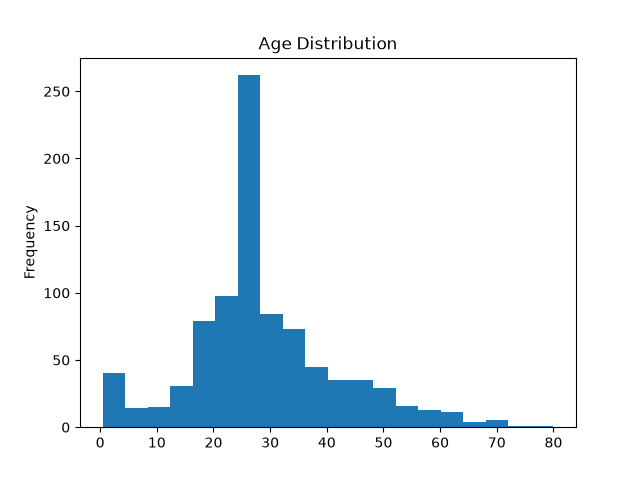
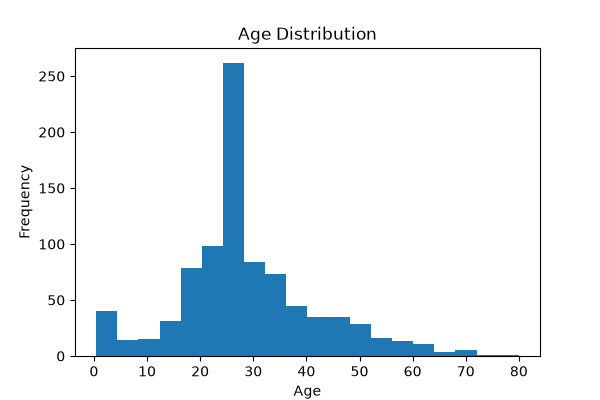
Restore Week 1 code

diff --git a/main.py b/main.py
@@ -1,0 +1,63 @@
+import pandas as pd
+import matplotlib.pyplot as plt
+
+# Load Dataset
+df = pd.read_csv("train.csv")
+
+# Display First 5 Rows
+print(df.head())
+
+# Dataset Information
+print(df.info())
+
+# -----------------------------
+# Data Cleaning
+# -----------------------------
+
+# Fill missing values
+df["Age"] = df["Age"].fillna(df["Age"].median())
+df["Embarked"] = df["Embarked"].fillna(df["Embarked"].mode()[0])
+
+# Remove Cabin column
+df = df.drop(columns=["Cabin"])
+
+# Remove duplicate rows
+df = df.drop_duplicates()
+
+# -----------------------------
+# Visualization 1
+# Survival Count
+# -----------------------------
+plt.figure(figsize=(6,4))
+df["Survived"].value_counts().plot(kind="bar", color=["red", "green"])
+plt.title("Survival Count")
+plt.xlabel("Survived")
+plt.ylabel("Number of Passengers")
+plt.savefig("survival.png")
+plt.close()
+
+# -----------------------------
+# Visualization 2
+# Age Distribution
+# -----------------------------
+plt.figure(figsize=(6,4))
+plt.hist(df["Age"], bins=20)
+plt.title("Age Distribution")
+plt.xlabel("Age")
+plt.ylabel("Frequency")
+plt.savefig("age.png")
+plt.close()
+
+# -----------------------------
+# Visualization 3
+# Survival Rate by Gender
+# -----------------------------
+plt.figure(figsize=(6,4))
+df.groupby("Sex")["Survived"].mean().plot(kind="bar")
+plt.title("Survival Rate by Gender")
+plt.xlabel("Gender")
+plt.ylabel("Survival Rate")
+plt.savefig("gender.png")
+plt.close()
+
+print("\nWeek 1 Project Completed Successfully!")
